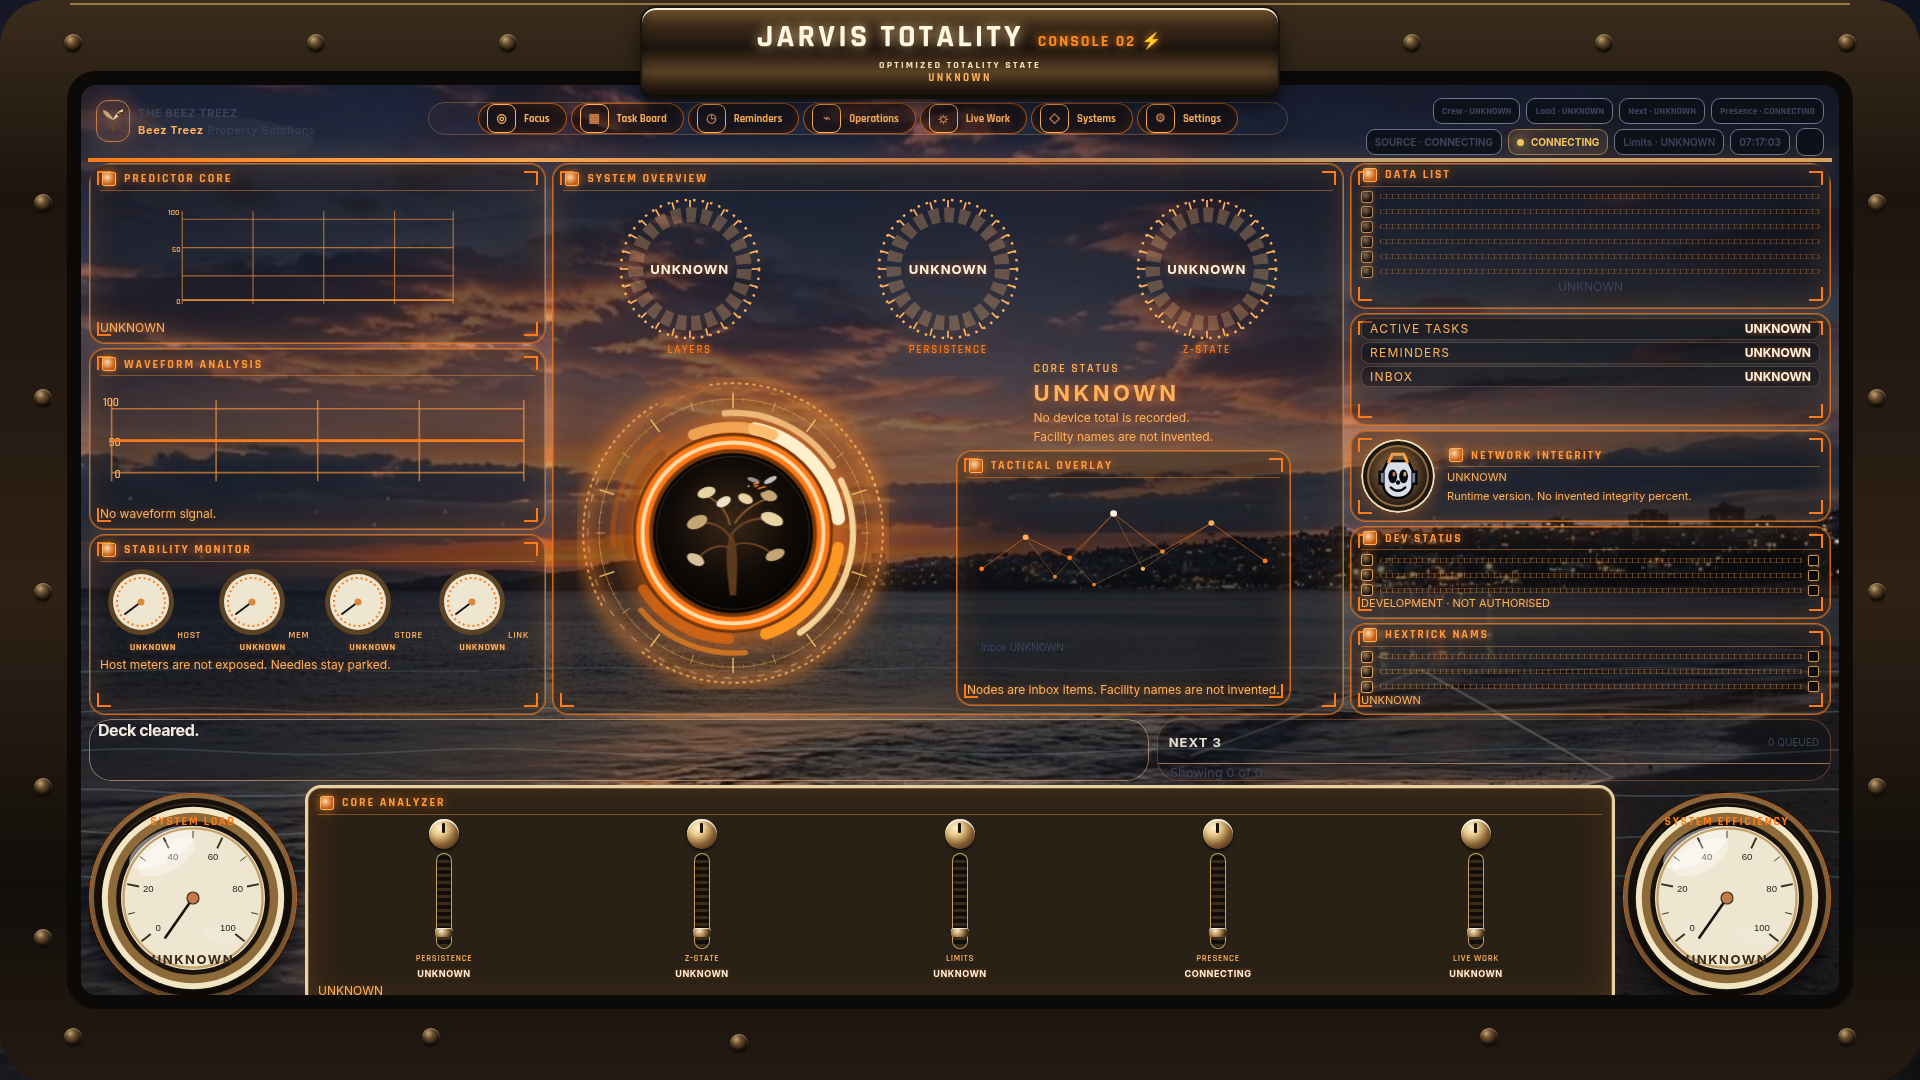
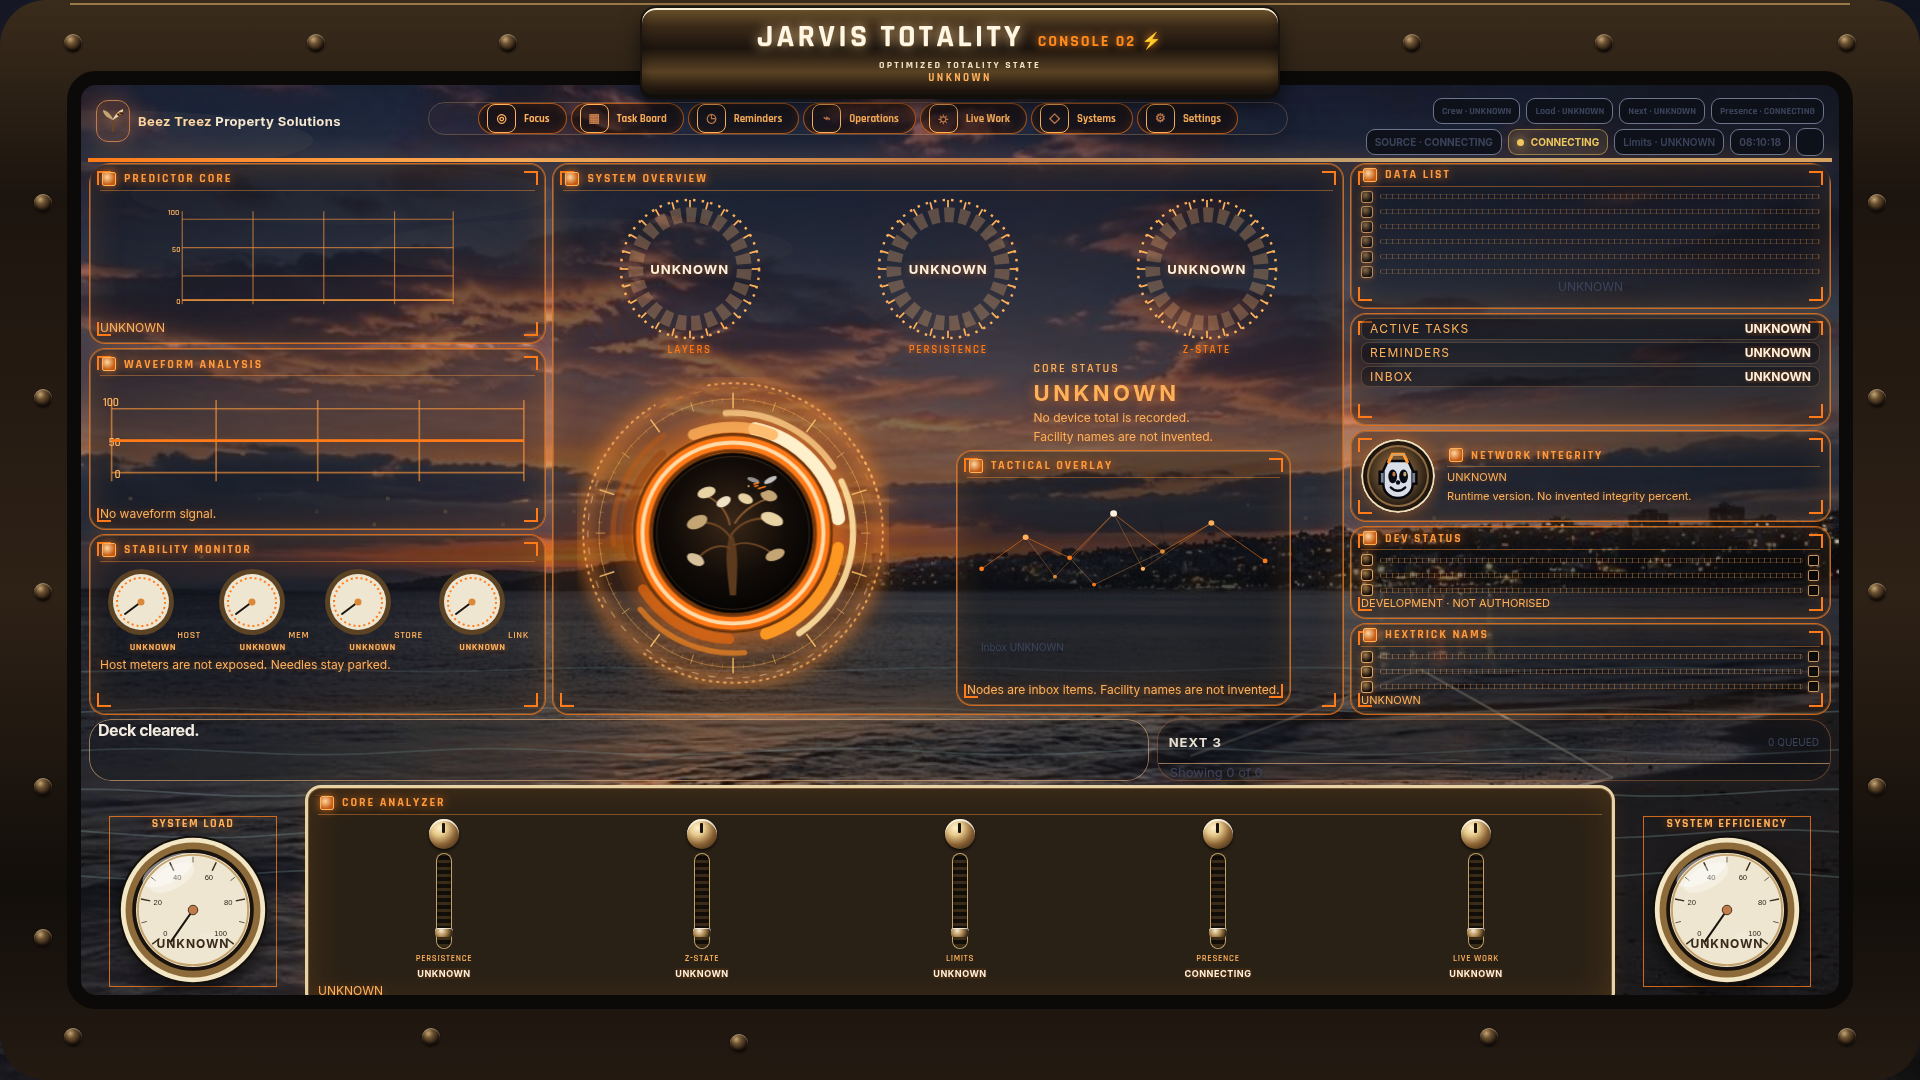
fix(hud): clear Console 02 gauge captions, bezel clip, and brand lockup
SYSTEM LOAD and SYSTEM EFFICIENCY sit above the dials, both gauges clear the bronze lip, and the brand kicker is hidden so Beez Treez shows once. Medallion stays 312px. Local run steps are in the HUD operator doc.

Changed region(s): [[0.0312, 0.7333, 0.1562, 0.9472], [0.8438, 0.7333, 0.9688, 0.9167], [0.0625, 0.0917, 0.1875, 0.1222]]

diff --git a/typescript/src/mcp/dashboard-v1.html b/typescript/src/mcp/dashboard-v1.html
@@ -1043,6 +1043,57 @@
         .gauge-face > b { bottom: 34px; font-size: 13px; letter-spacing: 0.12em; color: #3a2a18; text-shadow: none; }
       }
 
+    
+      @media (min-width: 1400px) {
+        .brand-kicker { display: none; }
+        .brand .plaque p {
+          margin: 0;
+          color: #f6e7cf;
+          font-size: 13px;
+          font-weight: 650;
+          line-height: 1.15;
+          letter-spacing: 0.03em;
+          white-space: nowrap;
+        }
+        .brand .plaque b { color: #ffd7a0; font-weight: 700; }
+        .gauge-face {
+          position: relative;
+          align-self: end;
+          width: 168px;
+          height: auto;
+          margin-bottom: 22px;
+          overflow: visible;
+          border-radius: 0;
+          background: transparent;
+          box-shadow: none;
+          padding: 0;
+        }
+        .gauge-face svg { width: 152px; height: 152px; display: block; margin: 0 auto; }
+        .gauge-face > span {
+          position: static;
+          top: auto;
+          display: block;
+          margin: 0 0 4px;
+          font-size: 12px;
+          line-height: 1.1;
+          letter-spacing: 0.12em;
+          color: #ffb15a;
+          text-shadow: 0 0 8px rgba(255, 122, 24, 0.55);
+        }
+        .gauge-face > b {
+          position: absolute;
+          left: 0;
+          right: 0;
+          top: auto;
+          bottom: 36px;
+          margin: 0;
+          font-size: 12px;
+          letter-spacing: 0.08em;
+          color: #3a2a18;
+          text-shadow: none;
+        }
+      }
+
     </style>
   </head>
   <body data-backdrop-severity="UNKNOWN" data-console-view="focus"><!-- JARVIS // OPERATOR CONSOLE · LANDSCAPE COMMAND CENTRE -->

diff --git a/typescript/docs/operators/hud.md b/typescript/docs/operators/hud.md
@@ -180,3 +180,54 @@ Loopback binding, credential-free widget output, and no delete controls stay as
 they are. See [chatgpt-preview.md](chatgpt-preview.md),
 [operations-inbox.md](operations-inbox.md), and
 [limits-settings.md](limits-settings.md).
+
+## Run this branch locally
+
+Node.js 24 (`typescript/.nvmrc`). There is no separate HUD build: `npm run start:http`
+runs `src/http/main.ts` through `tsx`. The page is `GET /hud` on the loopback bind
+only. It does not send `JARVIS_SERVICE_TOKEN`.
+
+From the repository root:
+
+```bash
+git checkout cursor/team-board-hud-4cb7
+cd typescript
+nvm use
+npm ci
+```
+
+Put the local env in `typescript/.env.local` (untracked). The HTTP server reads it
+before listen. Defaults are enough for the HUD:
+
+```text
+JARVIS_SERVICE_TOKEN=<existing strong service token>
+JARVIS_TIMEZONE=Australia/Melbourne
+PERSISTENCE_PROVIDER=json
+```
+
+Leave `JARVIS_HTTP_HOST` unset or set it to `127.0.0.1`. A non-loopback host is
+refused, and `/hud` is 404 off loopback. `JARVIS_HTTP_PORT` defaults to `3000`.
+`PERSISTENCE_PROVIDER` defaults to `json`. Convex is opt-in and needs
+`CONVEX_URL` plus the same service token.
+
+```bash
+npm run start:http
+```
+
+Open http://127.0.0.1:3000/hud. Liveness, which does not need the token, is
+`curl --silent --show-error http://127.0.0.1:3000/healthz`.
+
+To return to the release line, stop the server with Ctrl-C. The shell is still
+in `typescript/`:
+
+```bash
+cd ..
+git checkout main
+cd typescript
+nvm use
+npm ci
+npm run start:http
+```
+
+If the machine was on a pinned release tag rather than `main`, check that tag
+out instead of `main`.
